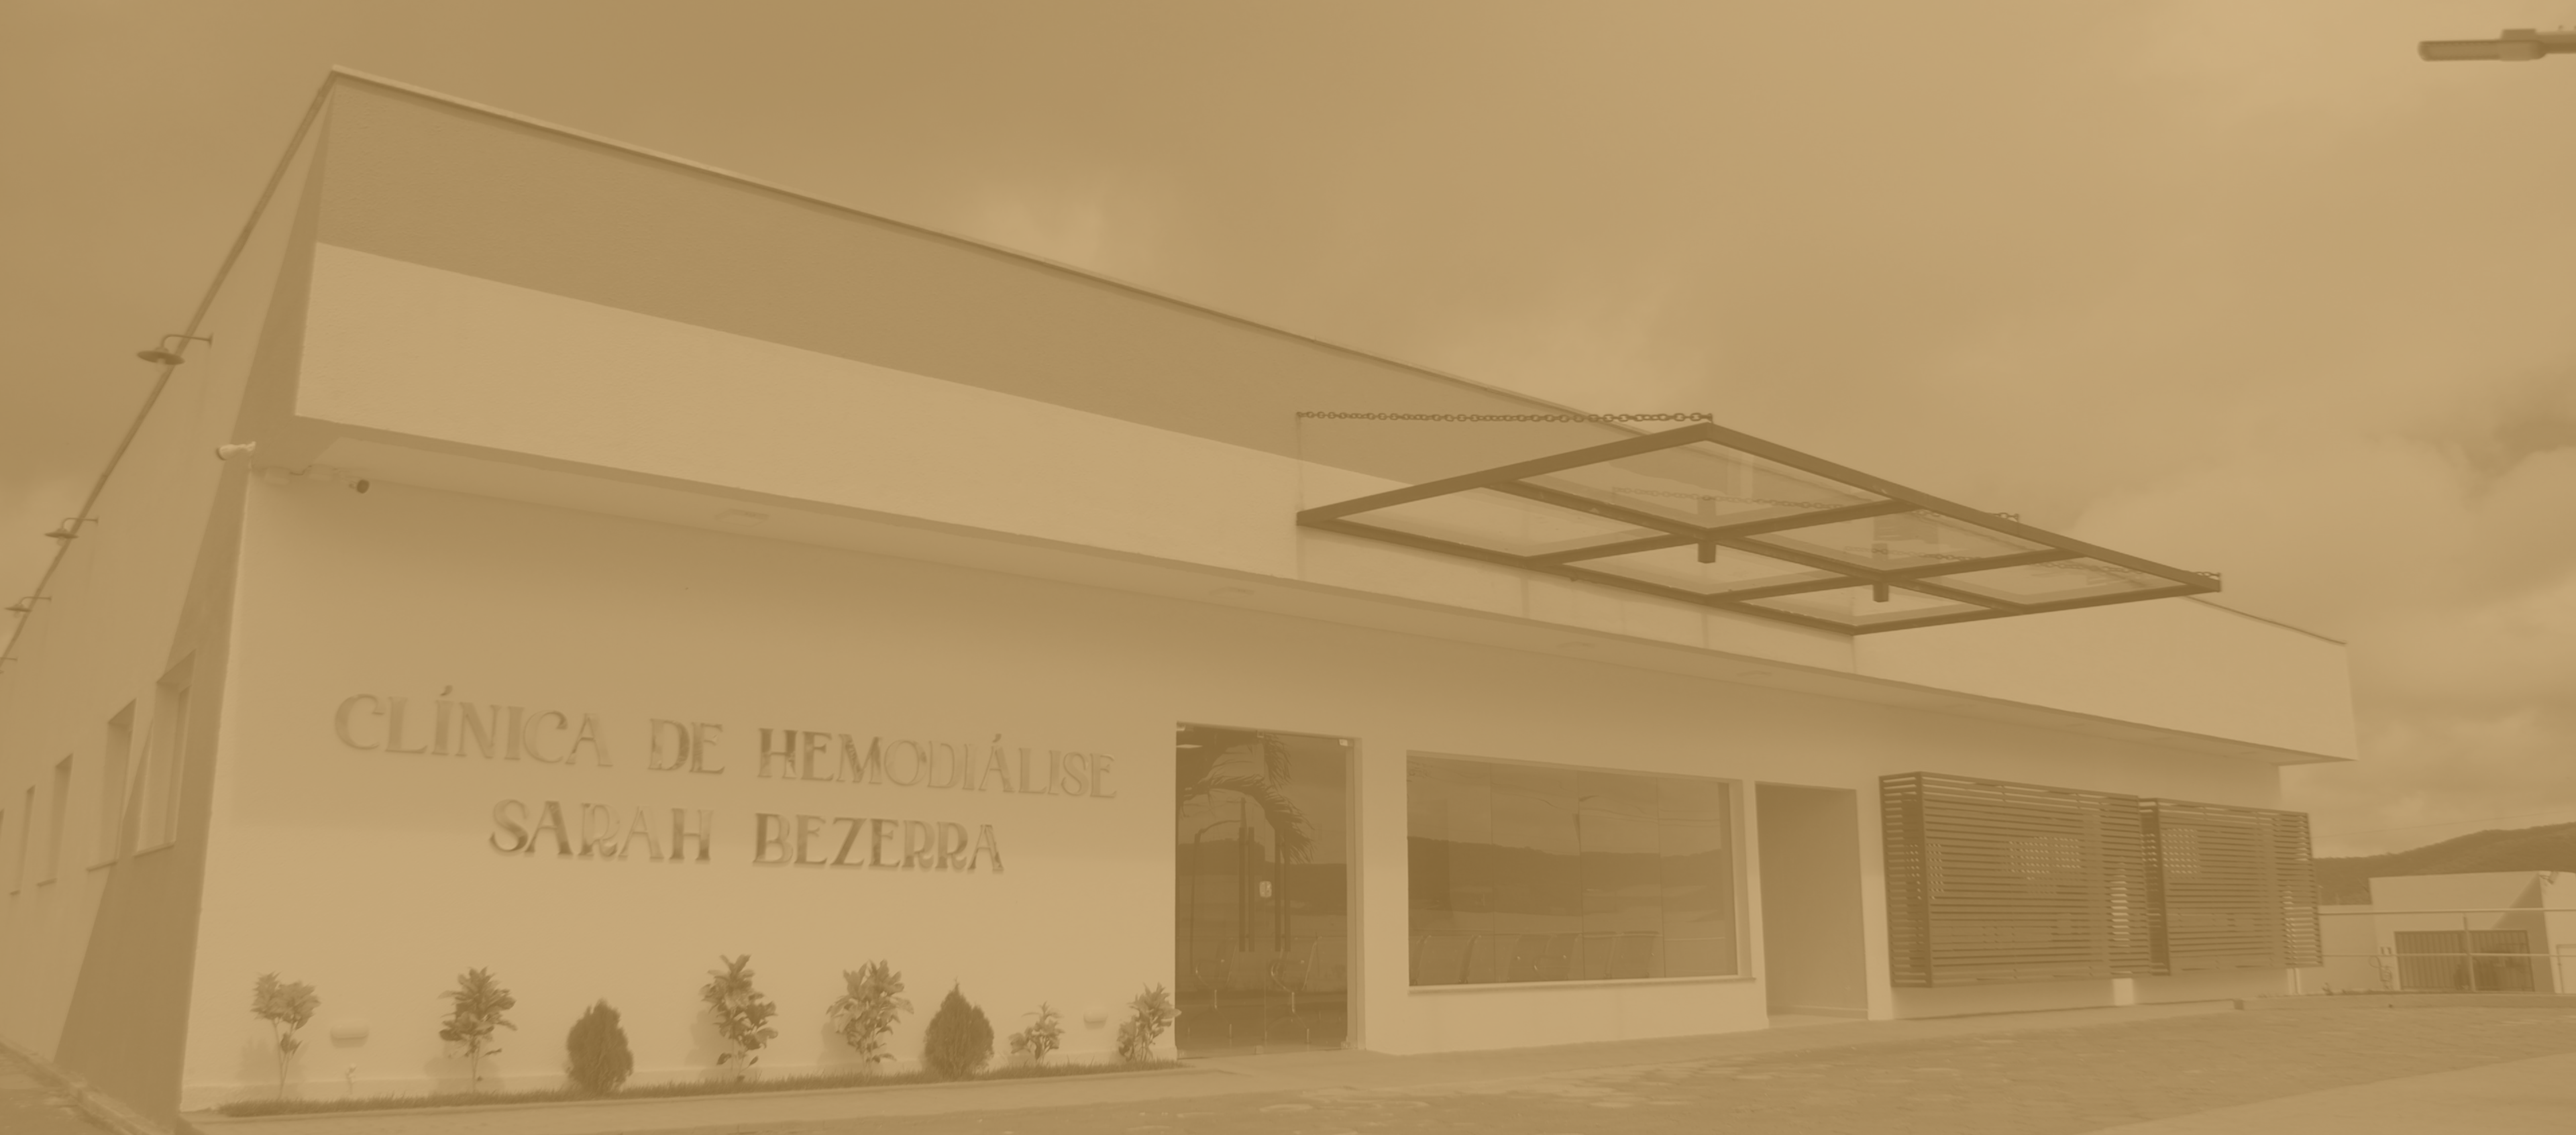
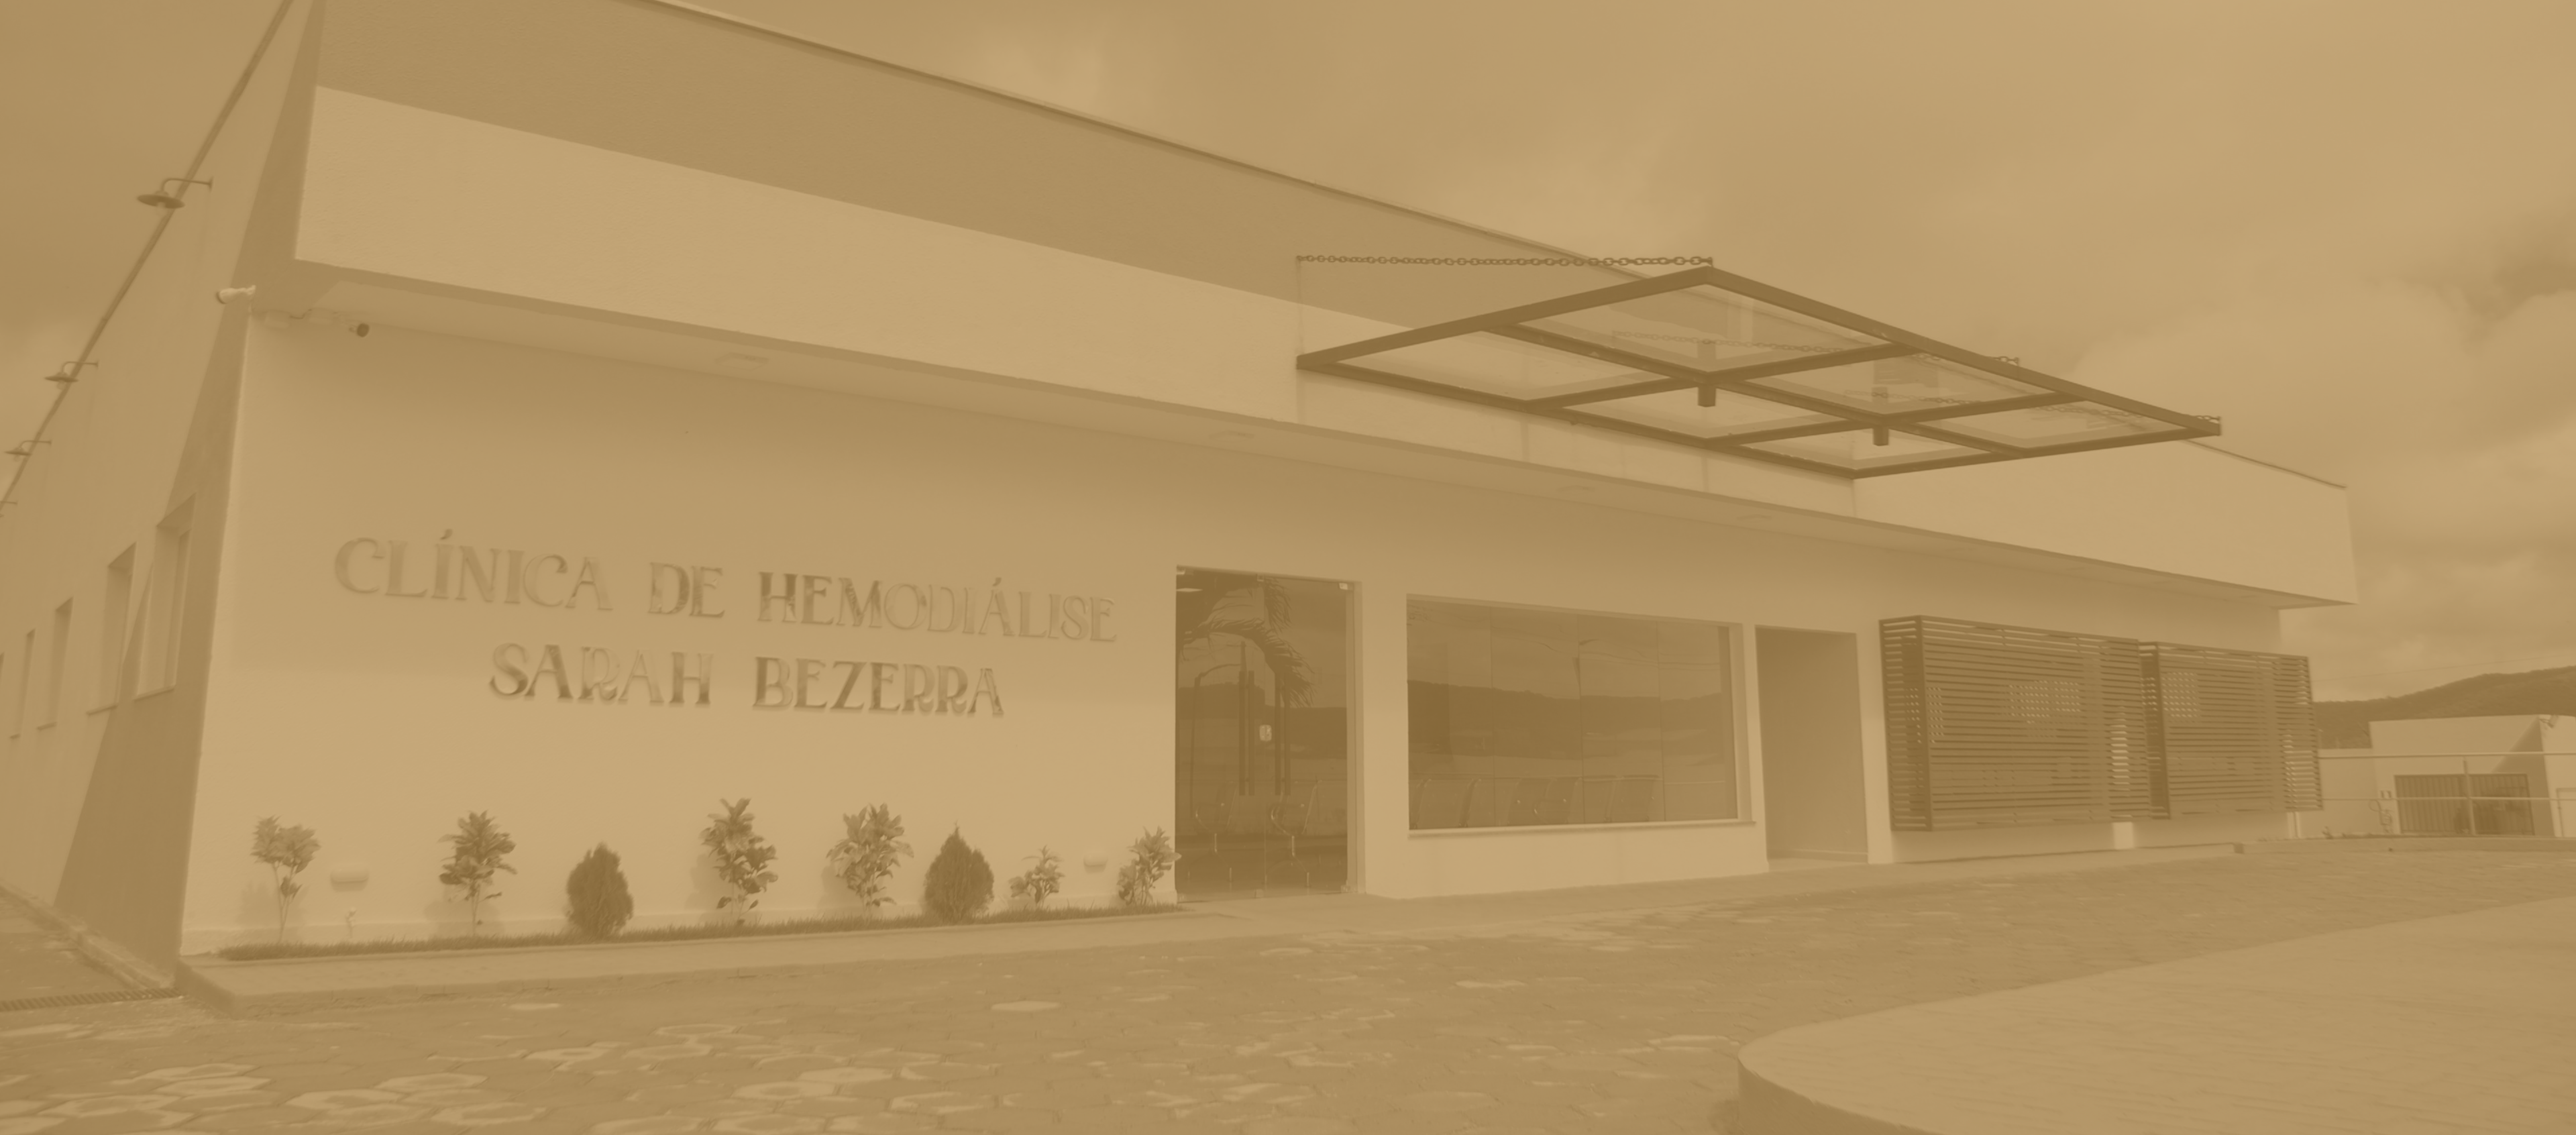
ajustes gerais

diff --git a/corpo-clinico.html b/corpo-clinico.html
@@ -58,11 +58,12 @@
         </div>
     </div>
 
-    <img src="./assets/image/fachada-one.png" class="header_image" alt="Sobre nós">
+    <img src="./assets/image/corpo-clinico-banner.jpg" class="header_image" alt="Sobre nós">
     <div class="corpo-section">
         <!-- <h1 class="corpo-title">Corpo Clínico</h1> -->
         <div class="service">
-            <h2 class="corpo-description page-title">Nosso time está preparado para oferecer o melhor atendimento, com atenção,
+            <h2 class="corpo-description page-title">Nosso time está preparado para oferecer o melhor atendimento, com
+                atenção,
                 respeito
                 e dedicação.</h2>
         </div>
@@ -86,6 +87,20 @@
                 </p>
             </div>
 
+            <!-- Dr. Marcos Correia -->
+            <div class="corpo-card">
+                <img src="assets/corpo-clinico/dr-marcos.jpg" alt="Dr. Marcos Correia">
+                <h3>Dr. Marcos Correia</h3>
+                <p><strong>Cirurgião Vascular.</strong></p>
+                <p>Cirurgião Vascular com mais de 16 anos de experiência em acessos para hemodiálise
+                    Dr. Marcos Correia é graduado em Medicina pela Universidade Federal de Alagoas (2004), com
+                    residências em Cirurgia Geral (UFAL, 2006) e Cirurgia Vascular (Hospital Geral Roberto Santos,
+                    2008). Membro titular da Sociedade Brasileira de Angiologia e Cirurgia Vascular, possui mais de 16
+                    anos de experiência em acessos para hemodiálise. Reconhecido por sua precisão técnica e empatia,
+                    dedica-se ao cuidado de pacientes renais crônicos, assegurando um atendimento especializado e
+                    humanizado.</p>
+            </div>
+
             <!-- Marinita Sá -->
             <div class="corpo-card">
                 <img src="assets/corpo-clinico/marinita.jpg" alt="Marinita Sá">
@@ -96,6 +111,18 @@
                     Nefrologia, possui vasta experiência em hemodiálise, diálise peritoneal e transplante renal, e
                     também se destacou na gestão de enfermagem em diálise, com formação no Instituto Valquíria Arenas,
                     garantindo excelência nos cuidados aos pacientes renais crônicos.</p>
+            </div>
+
+            <!-- Dra. Iara Dayse Mendes T. de Albuquerque -->
+            <div class="corpo-card">
+                <img src="assets/corpo-clinico/dra-iaradayse.jpg" alt="Dra. Iara Dayse Mendes T. de Albuquerque">
+                <h3>Dra. Iara Dayse Mendes T. de Albuquerque</h3>
+                <p><strong>Médica Nefropediatra com especialização em Doença Renal Crônica Pediátrica.</strong></p>
+                <p>NDra. Iara Dayse Mendes Tenório de Albuquerque é graduada em Medicina pela Universidade Federal de
+                    Alagoas (UFAL) e possui residência médica em Pediatria Clínica pelo Hospital do Servidor Público
+                    Estadual de São Paulo (IAMSPE). Especialista em Nefrologia Pediátrica pela Universidade Federal de
+                    São Paulo (Unifesp), dedica-se ao diagnóstico e tratamento de doenças renais em crianças e
+                    adolescentes, garantindo um cuidado humanizado e integral aos seus pacientes.</p>
             </div>
 
             <!-- Fernanda Porto -->

diff --git a/index.html b/index.html
@@ -96,9 +96,9 @@
             </div>
             <div>
                 <picture>
-                    <source srcset="./assets/image/espera-1.jpg" media="(max-width: 760px)">
-                    <source srcset="./assets/image/espera-1.jpg" media="(min-width: 761px)">
-                    <img src="./assets/image/espera-1.jpg" alt="Espera">
+                    <source srcset="./assets/image/leito-2.jpg" media="(max-width: 760px)">
+                    <source srcset="./assets/image/leito-2.jpg" media="(min-width: 761px)">
+                    <img src="./assets/image/leito-2.jpg" alt="Espera">
                 </picture>
             </div>
         </div>
@@ -106,7 +106,7 @@
 
     <div class="container">
 
-        <h2>NOSSOS DIFERENCIAS:</h2>
+        <h2 class="page-subtitle">NOSSOS DIFERENCIAS:</h2>
 
         <div class="cards top-space">
             <div class="grid-vision">
@@ -163,7 +163,7 @@
         <div class="videos top-space">
             <div class="video-container">
                 <!-- <h3 class="top-space">Seu tratamento, nossa missão. Sua vida, nossa prioridade.</h3> -->
-                <h2>Nosso Espaço</h2>
+                <h2 class="page-subtitle">NOSSO ESPAÇO</h2>
                 <div class="top-space">
                     <video controls>
                         <source src="./assets/video/video-1.mp4" type="video/mp4">

diff --git a/assets/css/about.css b/assets/css/about.css
@@ -45,17 +45,29 @@
 
 .grid-vision > div {
     display: flex;
+    flex-direction: column;
     background-color: #EEE;
     height: 100%;
     border: 1px solid #DDD;
     border-radius: 8px;
     padding: 18px;
-    align-items: center;
 }
 
 .grid-vision > div > span {
+    display: flex;
+    flex-direction: column;
     width: 100%;
 }
+
+.grid-vision > div > span img {
+    align-self: flex-start;
+    margin-bottom: 12px;
+}
+
+.grid-vision > div > span p {
+    text-align: justify;
+}
+
 
 .grid-vision h2 {
     color: #af7342;

diff --git a/assets/css/style.css b/assets/css/style.css
@@ -560,11 +560,6 @@ form button:hover {
     font-weight: lighter;
 }
 
-.video-container h2 {
-    font-size: 32px;
-    text-decoration: underline 1px;
-}
-
 video {
     width: 100%;
     border-radius: 20px;
@@ -770,4 +765,16 @@ h2.page-title {
     @media (min-width: 760px) {
         font-size: 26px;
     }
+}
+
+.main-hero p {
+    text-align: justify;
+}
+
+.service p {
+    text-align: justify;
+}
+
+.page-subtitle {
+    color: #0064b1;
 }

diff --git a/servicos.html b/servicos.html
@@ -65,7 +65,7 @@
         <!-- <h1>SERVIÇOS</h1> -->
         <br>
         <h2 class="page-title">
-            Uma estrutura completa para te receber! Aqui, você recebe muito mais que um tratamento.<br>Você recebe cuidado
+            Uma estrutura completa para te receber!<br>Aqui, você recebe muito mais que um tratamento. Você recebe cuidado
             e atenção em cada detalhe.
         </h2>
         <br>

diff --git a/sobre-nos.html b/sobre-nos.html
@@ -131,7 +131,7 @@
                 </div>
                 <div>
                     <span>
-                        <img src="./assets/image/di-3.jpg">
+                        <img src="./assets/image/valores.jpg">
                         <h2>Nossos Valores</h2>
                         <p>
                             "Nossa essência é valorizar a vida e proporcionar cuidados que fazem a diferença em cada

diff --git a/assets/css/corpo-clinico.css b/assets/css/corpo-clinico.css
@@ -18,6 +18,7 @@
     font-size: 1.1rem;
     color: #555;
     margin-bottom: 30px;
+    text-align: justify;
 }
 
 .corpo-cards {
@@ -60,6 +61,7 @@
     font-size: 1rem;
     color: #555;
     margin-bottom: 0;
+    text-align: justify;
 }
 
 @media (max-width: 768px) {

diff --git a/assets/css/contact.css b/assets/css/contact.css
@@ -10,8 +10,9 @@
     }
 }
 
-.grid-contact p {
+.grid-contact p {    
     font-family: var(--text);
+    text-align: justify;
 }
 
 .grid-contact a {
